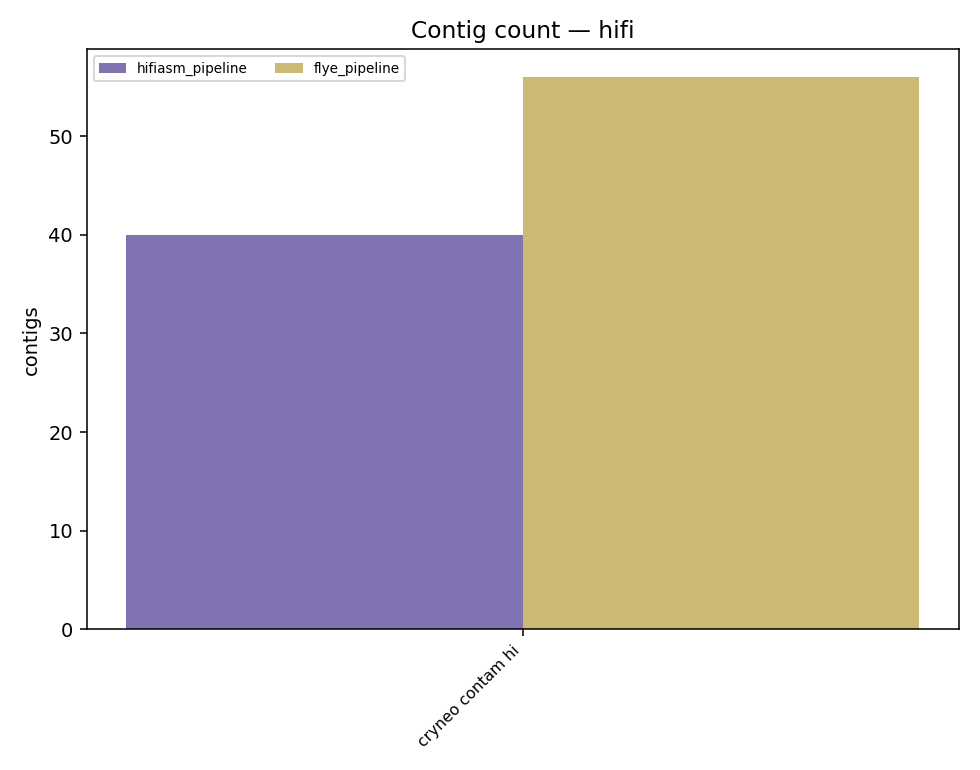
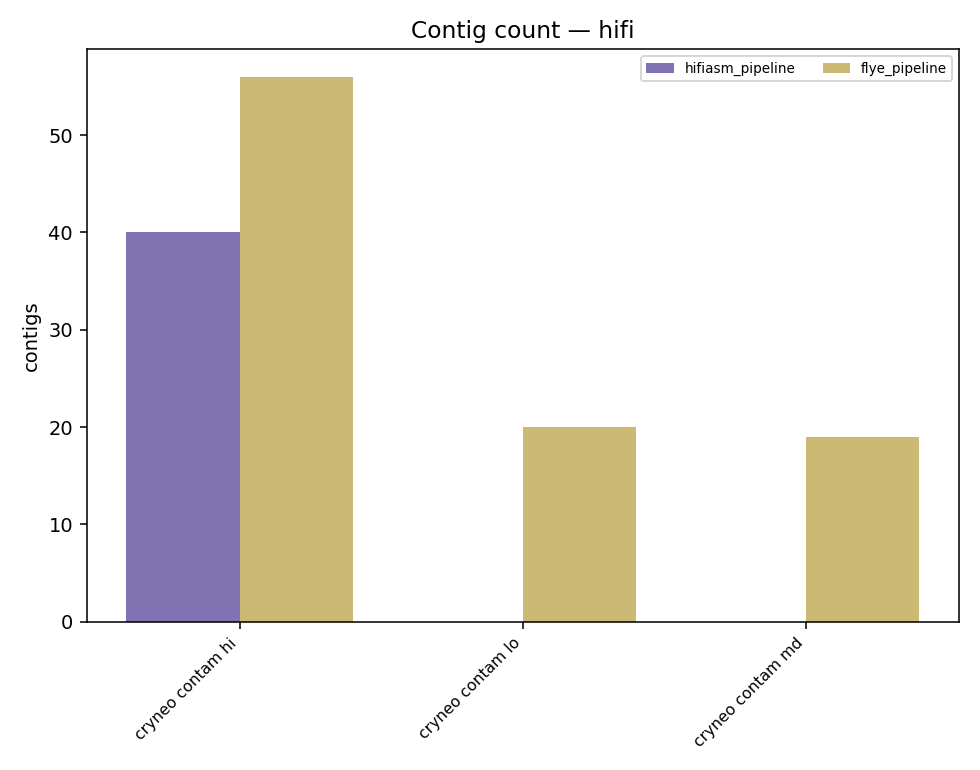
Fix egap read-only-fs crash, add mpgap/shovill/flye results to report
egap: singularity mounts the container fs read-only by default, but EGAP's
masurca stage tries to self-patch /usr/local/Flye as a vendored-flye shim,
crashing with EROFS before any assembler ran. Add --writable-tmpfs to the
singularity exec call.

mpgap: keep the nextflow/23.10.4 module-load fix (already validated end to
end: yarlip_sim_001, 410 contigs, N50=411kb, gzip output correct).

Report: fold in the now-complete mpgap, shovill_pipeline, flye_pipeline
(cryneo lo/md), and nf_aaftf (canaur all/degrad/mix) validation runs. Flag
the three nf_aaftf canaur wall-clock outliers (~31,000s) as SLURM queue
congestion artifacts (nf_aaftf submits each stage as its own sub-job), not
a real slowdown -- confirmed via .nextflow.log task-submit/complete gaps.

diff --git a/scripts/build_eval_report.py b/scripts/build_eval_report.py
@@ -40,6 +40,18 @@ RUNS = [
     ("flye_pipeline", "cryneo_sim_contam_hi_001",
      "/bigdata/stajichlab/jstajich/flye_validate_cryneo",
      REPO_ROOT / "datasets/sim/cryneo_sim_contam_hi_001/refs/cryneo_sim_contam_hi_001.truth.fa"),
+    ("flye_pipeline", "cryneo_sim_contam_lo_001",
+     str(REPO_ROOT / "results/adhoc/flye_pipeline/cryneo_sim_contam_lo_001"),
+     REPO_ROOT / "datasets/sim/cryneo_sim_contam_lo_001/refs/cryneo_sim_contam_lo_001.truth.fa"),
+    ("flye_pipeline", "cryneo_sim_contam_md_001",
+     str(REPO_ROOT / "results/adhoc/flye_pipeline/cryneo_sim_contam_md_001"),
+     REPO_ROOT / "datasets/sim/cryneo_sim_contam_md_001/refs/cryneo_sim_contam_md_001.truth.fa"),
+    ("mpgap", "yarlip_sim_001",
+     str(REPO_ROOT / "results/adhoc/mpgap/yarlip_sim_001"),
+     REPO_ROOT / "datasets/sim/yarlip_sim_001/refs/yarlip_sim_001.truth.fa"),
+    ("shovill_pipeline", "yarlip_sim_001",
+     str(REPO_ROOT / "results/adhoc/shovill_pipeline/yarlip_sim_001"),
+     REPO_ROOT / "datasets/sim/yarlip_sim_001/refs/yarlip_sim_001.truth.fa"),
 ]
 # canaur/zymtri direct-aaftf batch: same truth genome (canaur) for all 8,
 # zymtri its own. Read from the batch summary + per-dataset manifests.
@@ -55,6 +67,10 @@ for ds in BATCH_DATASETS:
 NF_SPOTCHECKS = ["canaur_sim_contam_hi_001", "zymtri_sim_chr1_001"]
 for ds in NF_SPOTCHECKS:
     RUNS.append(("nf_aaftf", ds, str(BATCH_DIR / f"nf_{ds}"),
+                 REPO_ROOT / f"datasets/sim/{ds}/refs/{ds}.truth.fa"))
+NF_SLURM_SWEEP = ["canaur_sim_all_001", "canaur_sim_degrad_001", "canaur_sim_mix_001"]
+for ds in NF_SLURM_SWEEP:
+    RUNS.append(("nf_aaftf", ds, str(REPO_ROOT / f"results/adhoc/nf_aaftf/{ds}"),
                  REPO_ROOT / f"datasets/sim/{ds}/refs/{ds}.truth.fa"))
 
 
@@ -279,6 +295,11 @@ def write_report(rows, figs_by_tech):
         "- `cryneo_sim_contam_hi_001` runs (`hifiasm_pipeline`, `flye_pipeline`) were validated "
         "before the read-ID-collision simulator fix (see git history); results are unaffected "
         "since both adapters either tolerate or work around the collision.\n"
+        "- `nf_aaftf` wall-clock on `canaur_sim_all_001`/`degrad_001`/`mix_001` (~31,000s, vs. "
+        "~2,400-2,900s for every other `nf_aaftf` run) reflects account-wide SLURM queue "
+        "congestion from unrelated jobs during that sweep, not a real pipeline slowdown -- "
+        "treat those three wall-clock values as unreliable; assembly-quality metrics for them "
+        "are unaffected.\n"
         "- All runs used real containerized tools against real (not placeholder) simulated read "
         "data; none of these numbers are smoke-test placeholders.\n"
     )

diff --git a/docs/reports/2026-08-19-benchmark-summary.md b/docs/reports/2026-08-19-benchmark-summary.md
@@ -20,6 +20,8 @@ Timing, assembly quality, and truth-genome accuracy for every pipeline validated
 |---|---|---:|---:|---:|---:|---:|---:|
 | flye_pipeline | cryneo_sim_contam_hi_001 | 1706 | 56 | 21,646,167 | 1,397,269 | 99.85 | 15/15 |
 | hifiasm_pipeline | cryneo_sim_contam_hi_001 | 335 | 40 | 19,921,979 | 1,421,616 | 99.92 | 15/15 |
+| flye_pipeline | cryneo_sim_contam_lo_001 | 1259 | 20 | 18,987,151 | 1,419,545 | 99.88 | 15/15 |
+| flye_pipeline | cryneo_sim_contam_md_001 | 1250 | 19 | 18,972,925 | 1,397,641 | 99.85 | 15/15 |
 
 ## illumina
 
@@ -37,15 +39,20 @@ Timing, assembly quality, and truth-genome accuracy for every pipeline validated
 |---|---|---:|---:|---:|---:|---:|---:|
 | aaftf | canaur_sim_adapter_001 | 2016 | 72 | 12,011,427 | 596,823 | 99.59 | 7/7 |
 | aaftf | canaur_sim_all_001 | 1691 | 75 | 11,992,462 | 519,954 | 99.34 | 7/7 |
+| nf_aaftf | canaur_sim_all_001 | 31089 | 39 | 11,988,416 | 559,235 | 99.15 | 7/7 |
 | aaftf | canaur_sim_carryover_001 | 2239 | 73 | 12,008,126 | 559,247 | 99.59 | 7/7 |
 | aaftf | canaur_sim_contam_hi_001 | 2173 | 68 | 12,013,760 | 635,962 | 99.53 | 7/7 |
 | nf_aaftf | canaur_sim_contam_hi_001 | 2894 | 38 | 12,011,267 | 720,160 | 99.32 | 7/7 |
 | aaftf | canaur_sim_contam_lo_001 | 2096 | 72 | 12,009,166 | 557,181 | 99.49 | 7/7 |
 | aaftf | canaur_sim_contam_md_001 | 2045 | 76 | 12,012,489 | 563,958 | 99.52 | 7/7 |
 | aaftf | canaur_sim_degrad_001 | 1876 | 72 | 11,991,880 | 520,029 | 99.25 | 7/7 |
+| nf_aaftf | canaur_sim_degrad_001 | 31148 | 35 | 11,982,400 | 635,968 | 99.15 | 7/7 |
 | aaftf | canaur_sim_mix_001 | 2301 | 73 | 12,009,866 | 636,519 | 99.57 | 7/7 |
+| nf_aaftf | canaur_sim_mix_001 | 31147 | 39 | 12,016,674 | 596,610 | 99.46 | 7/7 |
 | aaftf | yarlip_sim_001 | 4356 | 149 | 20,233,494 | 284,329 | 99.11 | 6/6 |
+| mpgap | yarlip_sim_001 | 5570 | 410 | 20,287,178 | 411,068 | 99.38 | 6/6 |
 | nf_aaftf | yarlip_sim_001 | 2408 | 126 | 20,240,007 | 277,510 | 99.01 | 6/6 |
+| shovill_pipeline | yarlip_sim_001 | 1509 | 704 | 20,257,849 | 49,020 | 98.93 | 6/6 |
 | aaftf | zymtri_sim_chr1_001 | 655 | 1000 | 5,677,261 | 8,958 | 94.75 | 1/1 |
 
 ## Notes
